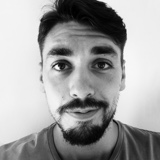
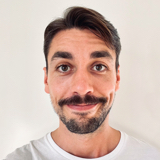
Updated profile pic

diff --git a/src/components/footer.js b/src/components/footer.js
@@ -170,7 +170,7 @@ export default () => (
       <div className={styles.footerCopyright}>
         <div>
           <p className="caption">
-            Made with ♥&#xFE0E; by Aaron Root <span>© Copyright 2020</span>
+            Made with ♥&#xFE0E; by Aaron Root <span>© Copyright 2021</span>
           </p>
         </div>
       </div>

diff --git a/src/content/notes/note_210119_MinoanHands.md b/src/content/notes/note_210119_MinoanHands.md
@@ -1,10 +1,10 @@
 ---
-title: "Minoan hands"
+title: "Minoan hands."
 date: "2021-01-19"
 tags: ["History"]
 ---
 
-"This ancient olive tree in Crete is an incredible 3000 years old. It is possible that Minoan hands once gathered olive from the tree at Ano Vouves near Chania, Crete, Greece."
+"This ancient olive tree in Crete is an incredible 3,000 years old. It is possible that Minoan hands once gathered olive from the tree at Ano Vouves near Chania, Crete, Greece."
 
 [Original Tweet](https://twitter.com/tzoumio/status/1351455624845008898)
 
